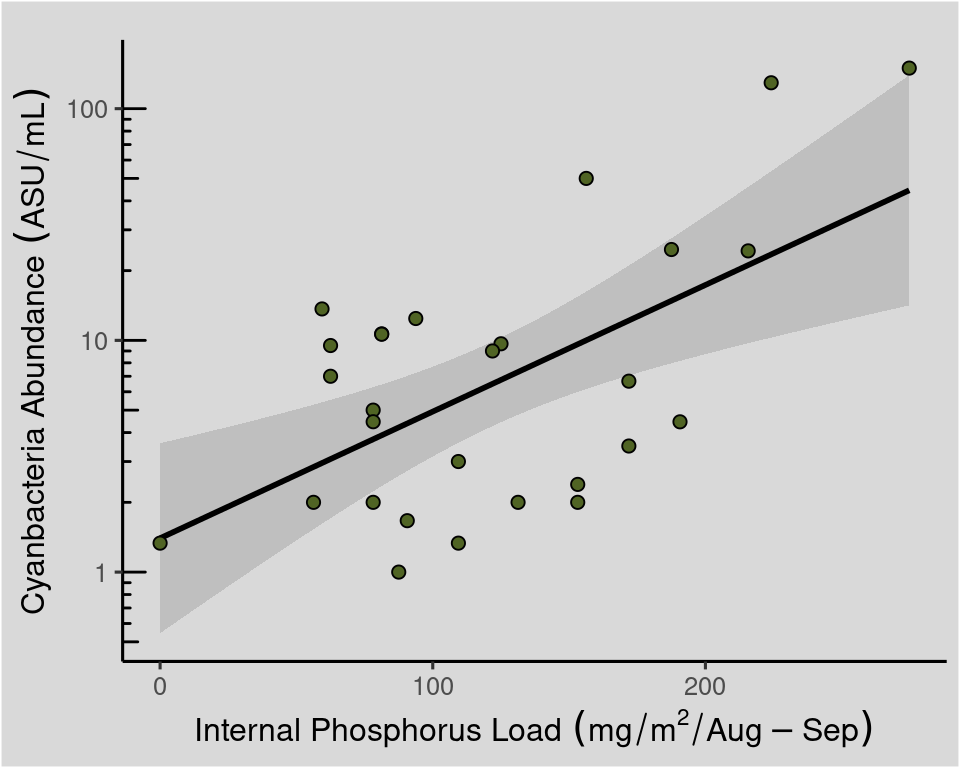
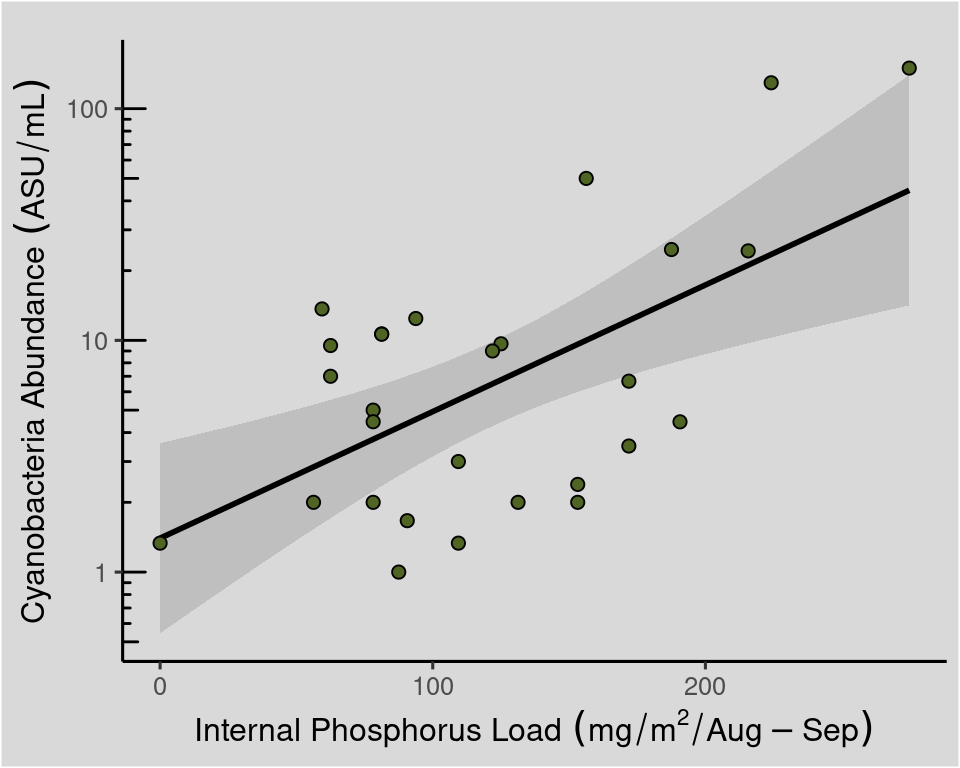
Tweaks - Make stats italic - Fix spelling of cyanobacteria

Changed region(s): [[0.0, 0.0938, 0.0625, 0.8125]]

diff --git a/erie.html b/erie.html
@@ -201,7 +201,7 @@ F-statistic: 13.26 on 1 and 9 DF,  p-value: 0.005386</code></pre>
 <span id="cb8-9"><a href="#cb8-9" aria-hidden="true" tabindex="-1"></a>         <span class="at">p =</span> <span class="fu">case_when</span>(p <span class="sc">&lt;</span> <span class="fl">0.0001</span> <span class="sc">~</span> <span class="st">"&lt;0.0001"</span>, </span>
 <span id="cb8-10"><a href="#cb8-10" aria-hidden="true" tabindex="-1"></a>                       p <span class="sc">&lt;</span> <span class="fl">0.001</span> <span class="sc">~</span> <span class="st">"&lt;0.001"</span>, </span>
 <span id="cb8-11"><a href="#cb8-11" aria-hidden="true" tabindex="-1"></a>                       p <span class="sc">&lt;</span> <span class="fl">0.01</span> <span class="sc">~</span> <span class="st">"&lt;0.01"</span>),</span>
-<span id="cb8-12"><a href="#cb8-12" aria-hidden="true" tabindex="-1"></a>         <span class="at">label =</span> <span class="fu">paste0</span>(<span class="st">"n=="</span>, n, <span class="st">"*','~R^2=='"</span>, r2, <span class="st">"'*','~p"</span>, p))</span></code><button title="Copy to Clipboard" class="code-copy-button"><i class="bi"></i></button></pre></div>
+<span id="cb8-12"><a href="#cb8-12" aria-hidden="true" tabindex="-1"></a>         <span class="at">label =</span> <span class="fu">paste0</span>(<span class="st">"italic(n)=="</span>, n, <span class="st">"*','~italic(R)^2=='"</span>, r2, <span class="st">"'*','~italic(p)"</span>, p))</span></code><button title="Copy to Clipboard" class="code-copy-button"><i class="bi"></i></button></pre></div>
 </div>
 </div>
 <div id="tabset-1-2" class="tab-pane" role="tabpanel" aria-labelledby="tabset-1-2-tab">
@@ -309,7 +309,7 @@ Scaled residual values: 0.808 0.336 0.324 0.092 0.62 0.14 0.396 0.26 0.952 0.928
 <span id="cb15-54"><a href="#cb15-54" aria-hidden="true" tabindex="-1"></a>  <span class="fu">geom_text</span>(<span class="at">data =</span> d, <span class="fu">aes</span>(<span class="at">x =</span> x_lab, <span class="at">y =</span> y_lab, <span class="at">label =</span> year), <span class="at">size =</span> <span class="fl">3.2</span>, <span class="at">colour =</span> <span class="st">"white"</span>, <span class="at">fontface =</span> <span class="st">"bold"</span>, </span>
 <span id="cb15-55"><a href="#cb15-55" aria-hidden="true" tabindex="-1"></a>            <span class="at">vjust =</span> <span class="dv">1</span>, <span class="at">hjust =</span> <span class="sc">-</span><span class="fl">0.15</span>) <span class="sc">+</span></span>
 <span id="cb15-56"><a href="#cb15-56" aria-hidden="true" tabindex="-1"></a>  <span class="fu">geom_text</span>(<span class="at">data =</span> d, <span class="fu">aes</span>(<span class="at">x =</span> x_lab, <span class="at">y =</span> y_lab, <span class="at">label =</span> year), <span class="at">size =</span> <span class="dv">3</span>, <span class="at">vjust =</span> <span class="dv">1</span>, <span class="at">hjust =</span> <span class="sc">-</span><span class="fl">0.2</span>) <span class="sc">+</span></span>
-<span id="cb15-57"><a href="#cb15-57" aria-hidden="true" tabindex="-1"></a>  <span class="fu">labs</span>(<span class="at">y =</span> <span class="fu">bquote</span>(<span class="st">"Cyanbacteria abundance"</span><span class="sc">~</span>(ASU<span class="sc">/</span>mL))) <span class="sc">+</span></span>
+<span id="cb15-57"><a href="#cb15-57" aria-hidden="true" tabindex="-1"></a>  <span class="fu">labs</span>(<span class="at">y =</span> <span class="fu">bquote</span>(<span class="st">"Cyanobacteria abundance"</span><span class="sc">~</span>(ASU<span class="sc">/</span>mL))) <span class="sc">+</span></span>
 <span id="cb15-58"><a href="#cb15-58" aria-hidden="true" tabindex="-1"></a>  <span class="fu">annotation_logticks</span>(<span class="at">sides =</span> <span class="st">"l"</span>) <span class="sc">+</span></span>
 <span id="cb15-59"><a href="#cb15-59" aria-hidden="true" tabindex="-1"></a>  <span class="fu">annotate</span>(<span class="at">geom =</span> <span class="st">"text"</span>, <span class="at">x =</span> <span class="dv">0</span>, <span class="at">y =</span> <span class="cn">Inf</span>, <span class="at">hjust =</span> <span class="dv">0</span>, <span class="at">vjust =</span> <span class="fl">1.1</span>, </span>
 <span id="cb15-60"><a href="#cb15-60" aria-hidden="true" tabindex="-1"></a>           <span class="at">label =</span> stats<span class="sc">$</span>label[stats<span class="sc">$</span>names <span class="sc">==</span> <span class="st">"abun"</span>], <span class="at">parse =</span> <span class="cn">TRUE</span>)</span>
@@ -366,7 +366,7 @@ Removed 17 rows containing missing values or values outside the scale range
 <span id="cb19-4"><a href="#cb19-4" aria-hidden="true" tabindex="-1"></a>        <span class="at">panel.background =</span> <span class="fu">element_rect</span>(<span class="at">fill =</span> <span class="st">"grey85"</span>)) <span class="sc">+</span></span>
 <span id="cb19-5"><a href="#cb19-5" aria-hidden="true" tabindex="-1"></a>  <span class="fu">stat_smooth</span>(<span class="fu">aes</span>(<span class="at">y =</span> abun), <span class="at">method =</span> <span class="st">"lm"</span>, <span class="at">se =</span> <span class="cn">TRUE</span>, <span class="at">na.rm =</span> <span class="cn">TRUE</span>, <span class="at">colour =</span> <span class="st">"black"</span>) <span class="sc">+</span></span>
 <span id="cb19-6"><a href="#cb19-6" aria-hidden="true" tabindex="-1"></a>  <span class="fu">geom_point</span>(<span class="fu">aes</span>(<span class="at">y =</span> abun), <span class="at">fill =</span> <span class="st">"#506424"</span>, <span class="at">size =</span> <span class="dv">2</span>, <span class="at">shape =</span> <span class="dv">21</span>) <span class="sc">+</span></span>
-<span id="cb19-7"><a href="#cb19-7" aria-hidden="true" tabindex="-1"></a>  <span class="fu">labs</span>(<span class="at">y =</span> <span class="fu">bquote</span>(<span class="st">"Cyanbacteria Abundance"</span><span class="sc">~</span>(ASU<span class="sc">/</span>mL))) <span class="sc">+</span></span>
+<span id="cb19-7"><a href="#cb19-7" aria-hidden="true" tabindex="-1"></a>  <span class="fu">labs</span>(<span class="at">y =</span> <span class="fu">bquote</span>(<span class="st">"Cyanobacteria Abundance"</span><span class="sc">~</span>(ASU<span class="sc">/</span>mL))) <span class="sc">+</span></span>
 <span id="cb19-8"><a href="#cb19-8" aria-hidden="true" tabindex="-1"></a>  <span class="fu">annotation_logticks</span>(<span class="at">sides =</span> <span class="st">"l"</span>) <span class="sc">+</span></span>
 <span id="cb19-9"><a href="#cb19-9" aria-hidden="true" tabindex="-1"></a>  <span class="fu">scale_y_log10</span>(<span class="at">breaks =</span> <span class="fu">c</span>(<span class="dv">1</span>, <span class="dv">10</span>, <span class="dv">100</span>)) <span class="sc">+</span></span>
 <span id="cb19-10"><a href="#cb19-10" aria-hidden="true" tabindex="-1"></a>  <span class="fu">scale_x_continuous</span>(<span class="at">name =</span> <span class="fu">bquote</span>(<span class="st">'Internal Phosphorus Load'</span><span class="sc">~</span>(mg<span class="sc">/</span>m<span class="sc">^</span><span class="dv">2</span><span class="sc">/</span>Aug<span class="sc">-</span>Sep)))</span></code><button title="Copy to Clipboard" class="code-copy-button"><i class="bi"></i></button></pre></div>

diff --git a/winnipeg.html b/winnipeg.html
@@ -179,7 +179,7 @@ F-statistic: 15.75 on 1 and 9 DF,  p-value: 0.003263</code></pre>
 <span id="cb6-5"><a href="#cb6-5" aria-hidden="true" tabindex="-1"></a>         <span class="at">n =</span> <span class="fu">map_int</span>(model, \(x) <span class="fu">length</span>(<span class="fu">summary</span>(x)<span class="sc">$</span>residuals)),</span>
 <span id="cb6-6"><a href="#cb6-6" aria-hidden="true" tabindex="-1"></a>         <span class="at">p =</span> <span class="fu">map_dbl</span>(model, \(x) <span class="fu">summary</span>(x)<span class="sc">$</span>coefficients[<span class="dv">2</span>,<span class="dv">4</span>]),</span>
 <span id="cb6-7"><a href="#cb6-7" aria-hidden="true" tabindex="-1"></a>         <span class="at">p =</span> <span class="fu">if_else</span>(p <span class="sc">&lt;=</span> <span class="fl">0.01</span>, <span class="st">"&lt;0.01"</span>, <span class="fu">paste0</span>(<span class="st">"=="</span>, <span class="fu">round</span>(p, <span class="dv">2</span>))),</span>
-<span id="cb6-8"><a href="#cb6-8" aria-hidden="true" tabindex="-1"></a>         <span class="at">label =</span> <span class="fu">paste0</span>(<span class="st">"n=="</span>, n, <span class="st">"*','~R^2=='"</span>, r2, <span class="st">"'*','~p"</span>, p))</span></code><button title="Copy to Clipboard" class="code-copy-button"><i class="bi"></i></button></pre></div>
+<span id="cb6-8"><a href="#cb6-8" aria-hidden="true" tabindex="-1"></a>         <span class="at">label =</span> <span class="fu">paste0</span>(<span class="st">"italic(n)=="</span>, n, <span class="st">"*','~italic(R)^2=='"</span>, r2, <span class="st">"'*','~italic(p)"</span>, p))</span></code><button title="Copy to Clipboard" class="code-copy-button"><i class="bi"></i></button></pre></div>
 </div>
 </div>
 <div id="tabset-1-2" class="tab-pane" role="tabpanel" aria-labelledby="tabset-1-2-tab">
